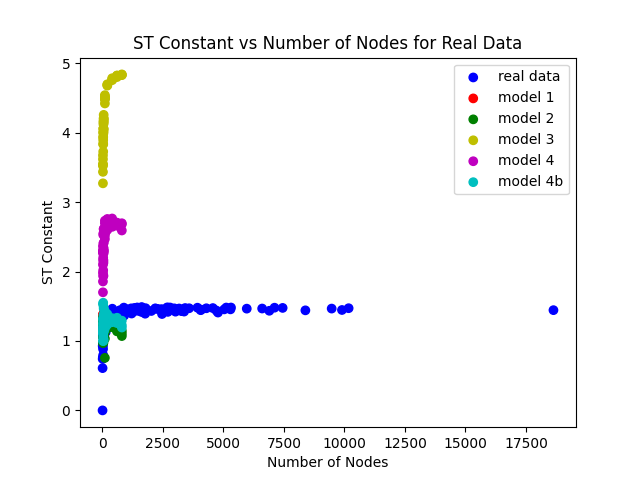
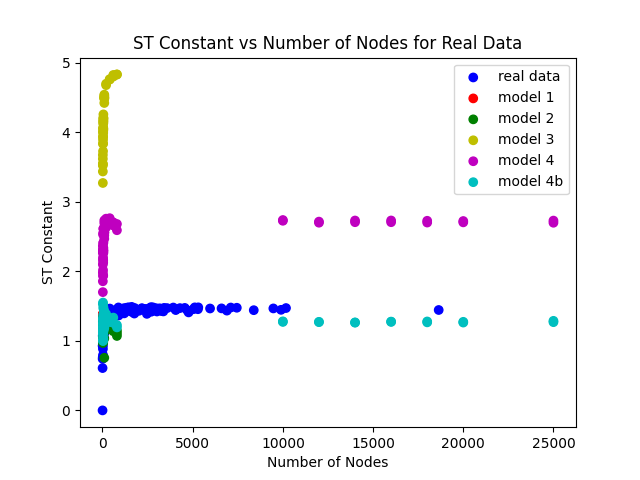
update spanning trees

diff --git a/spanning_trees.py b/spanning_trees.py
@@ -138,9 +138,9 @@ else:
 # Edit previous imported data to get only rand_seed and num_vertices
 new_df = df[["num_vertices", "rand_seed"]].drop_duplicates()
 
-new_vert = [200, 400, 600, 800] # , 10000, 12000, 14000, 16000, 18000, 20000, 25000]
+new_vert = [200, 400, 600, 800, 10000, 12000, 14000, 16000, 18000, 20000, 25000]
 for vert in new_vert:
-    for seed in df["rand_seed"].unique()[0:3]:
+    for seed in df["rand_seed"].unique()[0:2]:
         new_row = pd.DataFrame([{'num_vertices': vert, 'rand_seed': seed}])
         new_df = pd.concat([new_df, new_row], ignore_index=True)
 
